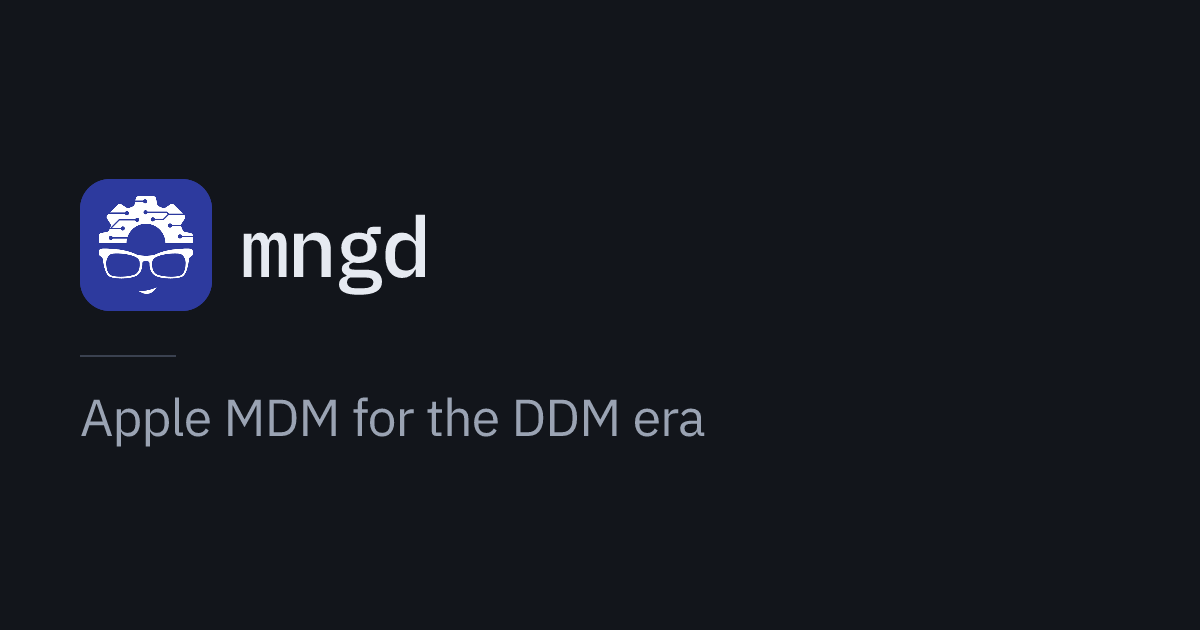
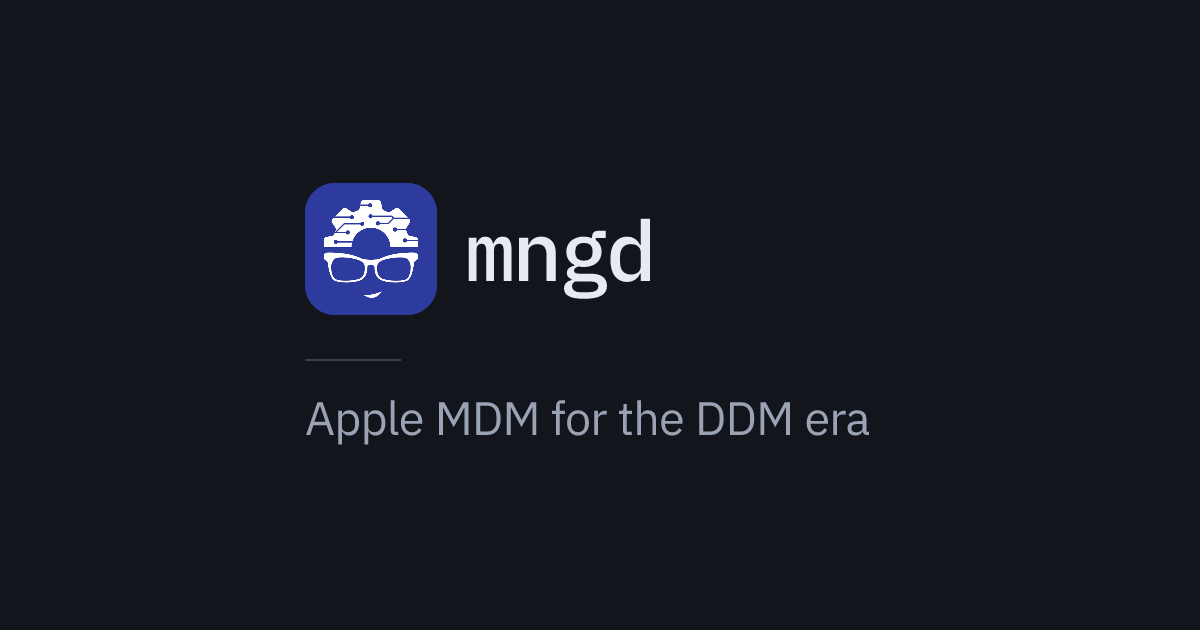
fix(site): og.png survives a square crop; a missing file no longer answers 200
Three production defects, found by smoke-testing the live site after #3 merged.
Also carries the commit that #3 missed: it was pushed four minutes after the
merge, so og.png, the README's private-repo rationale, the fonts-provenance note
and the form-delivery checklist never reached main.

**A missing file answered 200.** Cloudflare Pages falls back to index.html when it
cannot match a path and no 404.html exists, so /og.png, /robots.txt and
/sitemap.xml all returned the HOME PAGE with a 200 and a text/html content type.
That is worse than a 404: it defeats link checkers, share-preview fetchers and
search engines simultaneously, and it is exactly why og.png appeared to be live
when it had never been deployed at all. src/pages/404.astro fixes it — Pages
serves that file with a real 404.

**og.png would have lost its brand to a square crop.** Some share surfaces crop
toward a centred 1:1, which on a 1200x630 canvas keeps roughly x 285-915. At the
old left padding of 80 the mark fell entirely outside that window and the wordmark
lost its leading edge: the card survived as a tagline with no brand on it. The
group now starts at 305 and the tagline is 47px rather than 52 so it, too, fits
inside the crop — the full card still reads left-aligned with its right-hand
breathing room. docs/og-crop-preview.png is the crop, regenerated with the card so
the two cannot drift, and it is the second image David approves.
[…]

diff --git a/docs/cloudflare-domains.md b/docs/cloudflare-domains.md
@@ -25,9 +25,16 @@ Order matters only where it says so.
 - 301, preserving path and query.
 - Verify: `curl -sI https://www.mngd.app/blog | head -3` shows `301` and a
   `location:` of `https://mngd.app/blog`.
+- **Status 2026-09-11: `www.mngd.app` does not resolve at all** — curl returns
+  000, a connection failure rather than an unredirected 200. So this is not "the
+  redirect is missing", it is "the hostname is dead". Anyone who types the www
+  form today gets a browser error.
 
 ## 3. getmngd.app → mngd.app, 301 — ONCE REGISTERED
 
+- **Which TLD? Confirm before registering.** This checklist was written as
+  `getmngd.app`; David's note of 2026-09-11 said `getmngd.com`. They are different
+  registrations and only one of them is the one he wants. Not guessed here.
 - Not registered yet. Nothing to do until it is; this line exists so the step is
   not rediscovered later.
 - When it is: whole-domain 301 to `https://mngd.app`, path preserved. It is a
